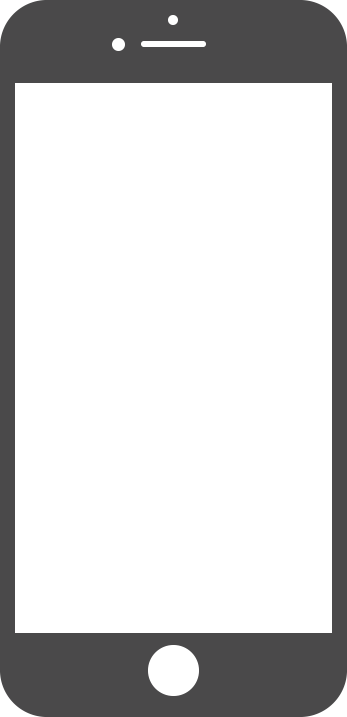
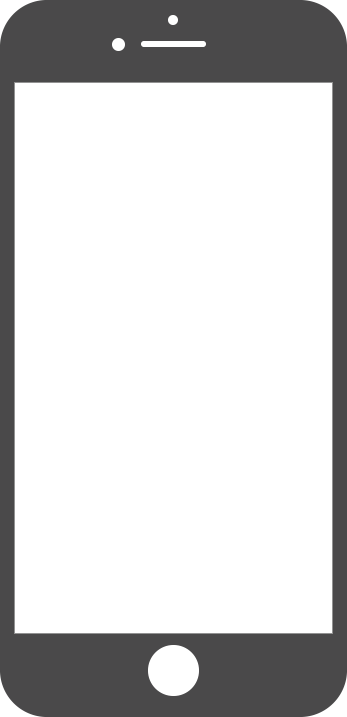
Changed how templates are implemented - they are now the background of a DIV that is underneath a transparent canvas.

Changed region(s): [[0.0288, 0.8591, 0.0576, 0.8898]]

diff --git a/public/js/app.js b/public/js/app.js
@@ -98,21 +98,30 @@ var mobileButton = document.getElementById("mobileButton");
 var tabletButton = document.getElementById("tabletButton");
 var desktopButton = document.getElementById("desktopButton");
 
-        var canvas = document.getElementById('paintCanvas');
-        var context = canvas.getContext('2d');
-        var img = document.createElement("img");
-function drawTemplate(template) {
-    context.clearRect(0,0,canvas.width, canvas.height);
-    var img = document.createElement("img");
+var canvas = document.getElementById('paintCanvas');
+var context = canvas.getContext('2d');
+var img = document.createElement("img");
 
-    img.onload = function () {
-        imgWidth = img.width * 0.6;
-        imgHeight = img.height * 0.6;
-        centerHor = canvas.width / 2 - imgWidth / 2;
-        centerVert = canvas.height / 2 - imgHeight / 2;
-        context.drawImage(img, centerHor, centerVert, imgWidth, imgHeight);
-    };
-    img.src = template;
+function drawTemplate(template) {
+    // document.getElementById('templateImage').appendChild(img);
+    templateDiv = document.getElementById('templateImage');
+    backgroundImg = template;
+
+    templateDiv.style.backgroundImage = backgroundImg;
+    templateDiv.style.backgroundRepeat = 'no-repeat';
+    templateDiv.style.backgroundPosition = 'center';
+    console.log('bg');
+    // context.clearRect(0,0,canvas.width, canvas.height);
+    // var img = document.createElement("img");
+    //
+    // img.onload = function () {
+    //     imgWidth = img.width * 0.6;
+    //     imgHeight = img.height * 0.6;
+    //     centerHor = canvas.width / 2 - imgWidth / 2;
+    //     centerVert = canvas.height / 2 - imgHeight / 2;
+    //     context.drawImage(img, centerHor, centerVert, imgWidth, imgHeight);
+    // };
+    // img.src = template;
 }
 
 socket.on ("drawTemplate", function(template) {
@@ -120,16 +129,23 @@ socket.on ("drawTemplate", function(template) {
 });
 
 mobileButton.onclick = function () {
-    var img = "../img/iPhoneTemplate.png";
+    var img = "url(../img/iPhoneTemplate.png)";
     console.log("onclick works");
     socket.emit("newTemplate", img);
 };
 
 tabletButton.onclick = function () {
-    var img = "../img/iPadTemplate.png";
+    var img = "url(../img/iPadTemplate.png)";
     console.log("onclick works");
     socket.emit("newTemplate", img);
 };
+
+desktopButton.onclick = function () {
+    var img = "url(../img/desktopTemplate.png)";
+    console.log("onclick works");
+    socket.emit("newTemplate", img);
+};
+
 //login tings
 
     var loginContainer = document.getElementById("loginContainer");
@@ -148,12 +164,6 @@ tabletButton.onclick = function () {
         $(loginContainer).hide()
 
     };
-
-desktopButton.onclick = function () {
-    var img = "../img/desktopTemplate.png";
-    console.log("onclick works");
-    socket.emit("newTemplate", img);
-};
 
     var username = "";
     var connected = false;

diff --git a/public/css/style.css b/public/css/style.css
@@ -5,7 +5,7 @@
 html {
   height: 100%; }
 
-body, #loginContainer {
+body {
   background: #ff9068;
   /* For browsers that do not support gradients */
   background: -webkit-linear-gradient(#ff9068, #fd746c);
@@ -16,23 +16,15 @@ body, #loginContainer {
   /* For Firefox 3.6 to 15 */
   background: linear-gradient(#ff9068, #fd746c);
   height: 100%;
-  margin: 0;s
+  margin: 0;
   background-repeat: no-repeat;
   background-attachment: fixed; }
 
 .container {
-  padding: 2em;
-    display:grid;
-    grid-template-rows: [first] 45% [gap] auto [last] 45% [end];
-    
-}
-
+  padding: 2em; }
 
 h1 {
-  font-family: "Work Sans", sans-serif;
-    grid-column-start: 1;
-    grid-column-end: end;
-}
+  font-family: "Work Sans", sans-serif; }
 
 .color {
   display: inline-block;
@@ -56,7 +48,7 @@ h1 {
 
 .toolbar {
   height: 70px;
-  width: 100%;
+  width: 50%;
   background-color: #4a494a;
   padding-top: 0.12em;
   padding-left: 1em; }
@@ -76,30 +68,22 @@ h1 {
         margin-right: 1em; }
 
 .canvasContainer {
-    height: 60%;
-    grid-column-start: 1;
-    grid-column-end: 2;
-}
+  width: 50%;
+  height: 80%;
+  position: relative; }
+
+#templateImage {
+  z-index: -1;
+  display: inline;
+  position: absolute;
+  width: 600px;
+  height: 500px;
+  background-color: #fff; }
 
 #paintCanvas {
-  background: white;
+  z-index: 999;
+  background: rgba(255, 255, 255, 0);
   width: 100%;
   height: 100%; }
-
-.messages {
-    background: white;
-    grid-column-start: 3;
-    grid-column-end: end ;
-
-
-}
-
-/* login */
-
-#loginContainer {
-    width: 100%;
-    height: 100%;
-    position:absolute;
-}
 
 /*# sourceMappingURL=style.css.map */

diff --git a/public/css/style.scss b/public/css/style.scss
@@ -84,11 +84,22 @@ h1 {
 
 .canvasContainer {
   width: 50%;
-  height: 60%;
+  height: 80%;
+  position: relative;
+}
+
+#templateImage {
+  z-index: -1;
+  display: inline;
+  position: absolute;
+  width: 600px;
+  height: 500px;
+  background-color: #fff;
 }
 
 #paintCanvas {
-  background: white;
+  z-index: 999;
+  background:rgba(255,255,255,0);
   width: 100%;
   height: 100%;
 }

diff --git a/public/index.html b/public/index.html
@@ -39,7 +39,7 @@
                         <li><button id = "desktopButton">Desktop</button></li>
                     </ul>
                 </div>
-
+                <div id="templateImage"></div>
                 <canvas id="paintCanvas" class="paintCanvas">
                     Your browser does not support canvas.
                 </canvas>
